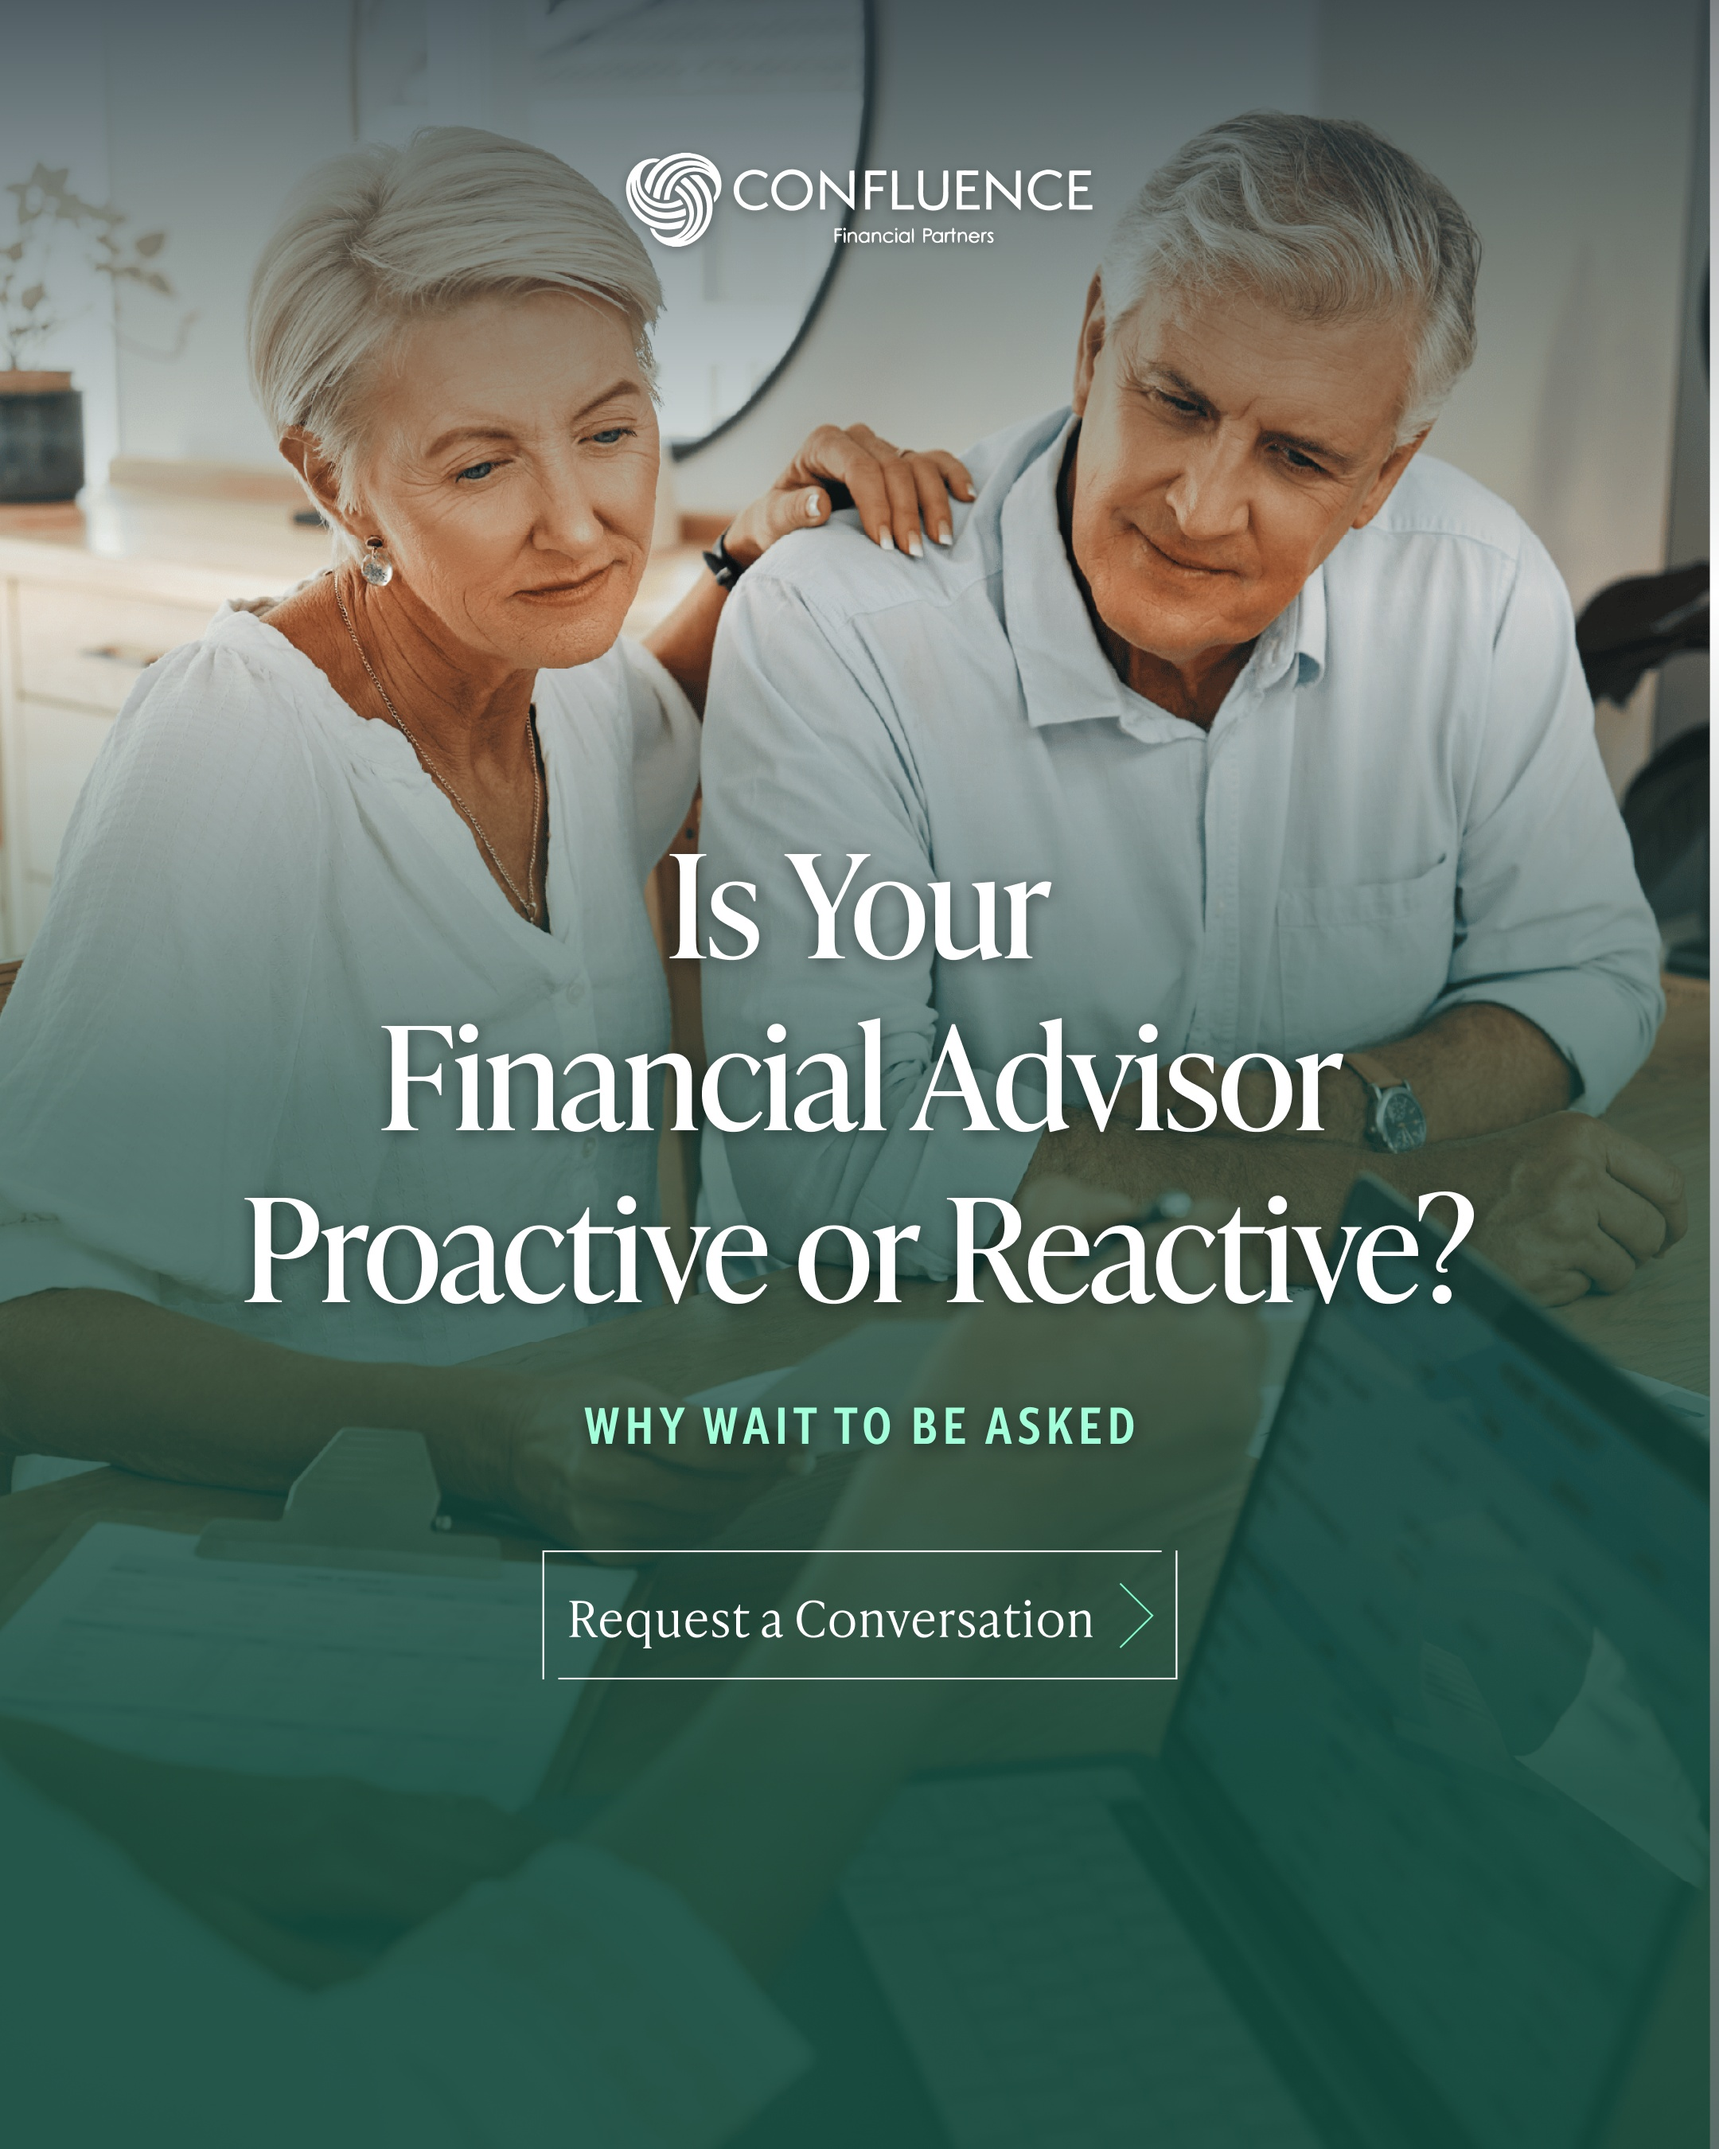
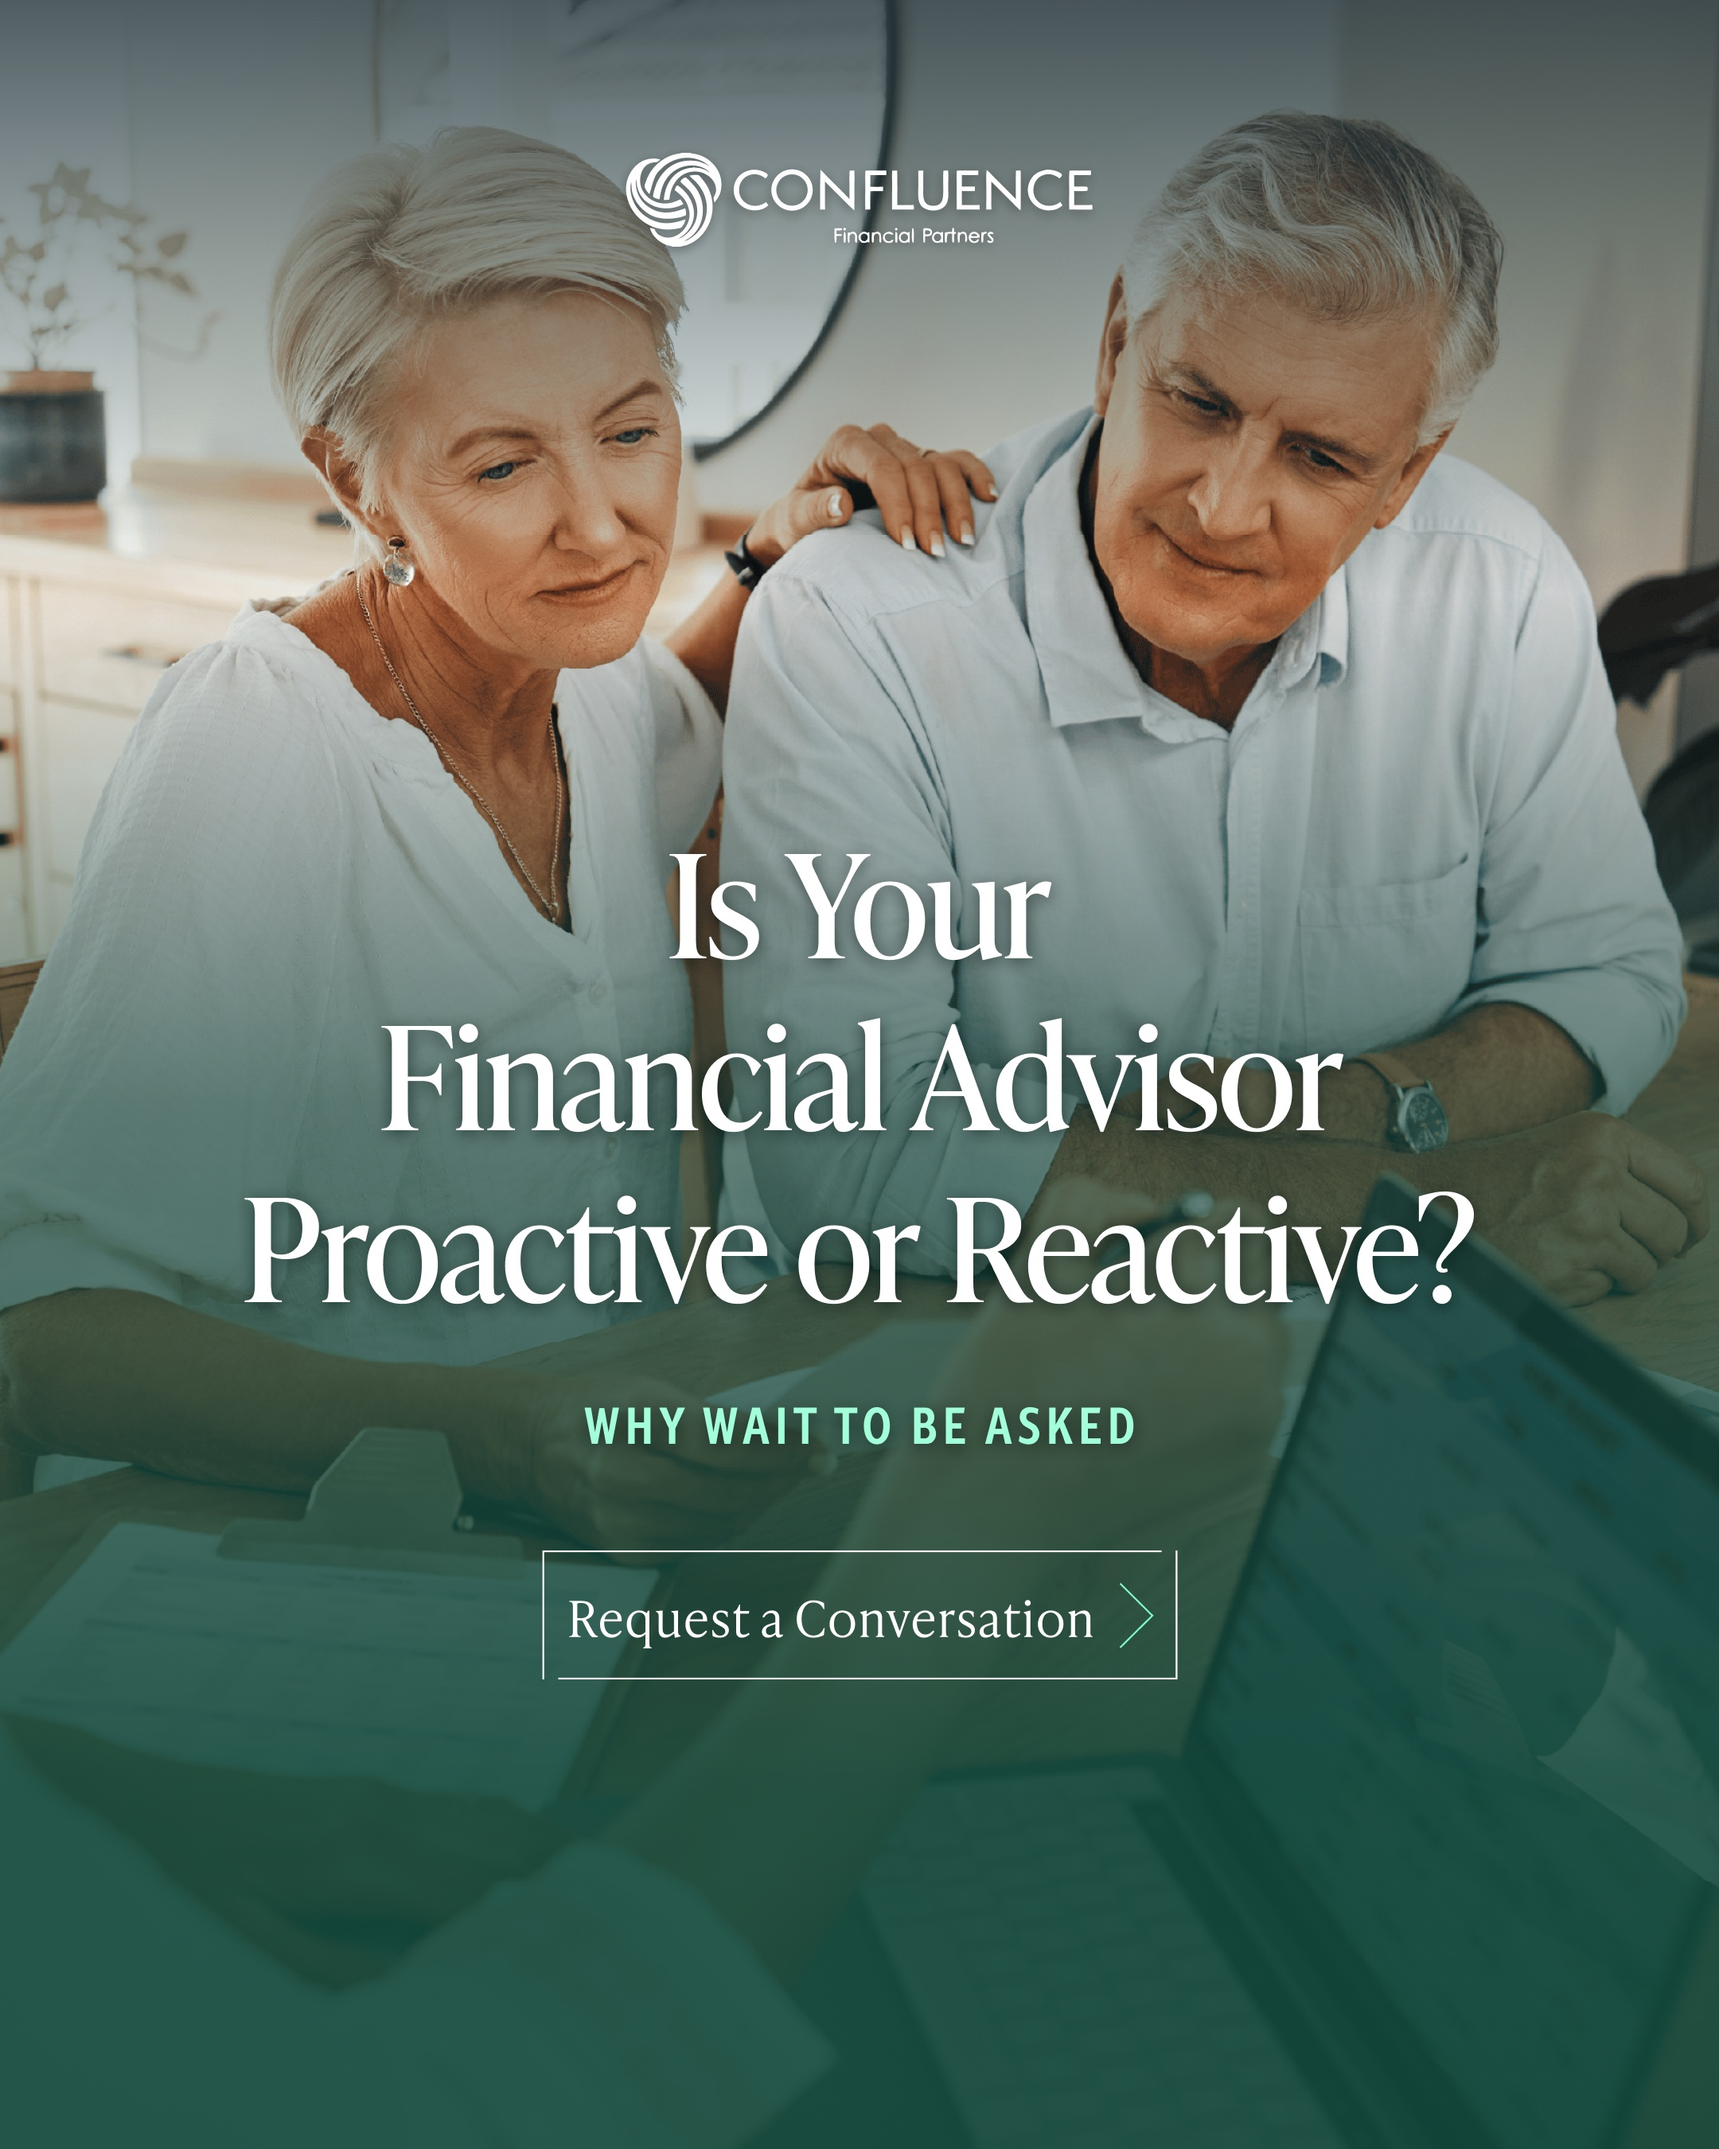
CFP vEdge: update Ad 5 (Proactive) feed creative

diff --git a/confluence-fp-consultation-vedge/index.html b/confluence-fp-consultation-vedge/index.html
@@ -1203,7 +1203,7 @@ let _activeImageVersion = {};
 let _placementIdx = {};
 let _feedbackCache = {};
 const CAMPAIGN_ID = 'confluence-fp-consultation-vedge';
-const ASSET_V = '1787324492';  // cache-bust token, stamped at bake time
+const ASSET_V = '1787324648';  // cache-bust token, stamped at bake time
 
 // ── Utility ────────────────────────────────────────────────────────────────
 function esc(s) {
